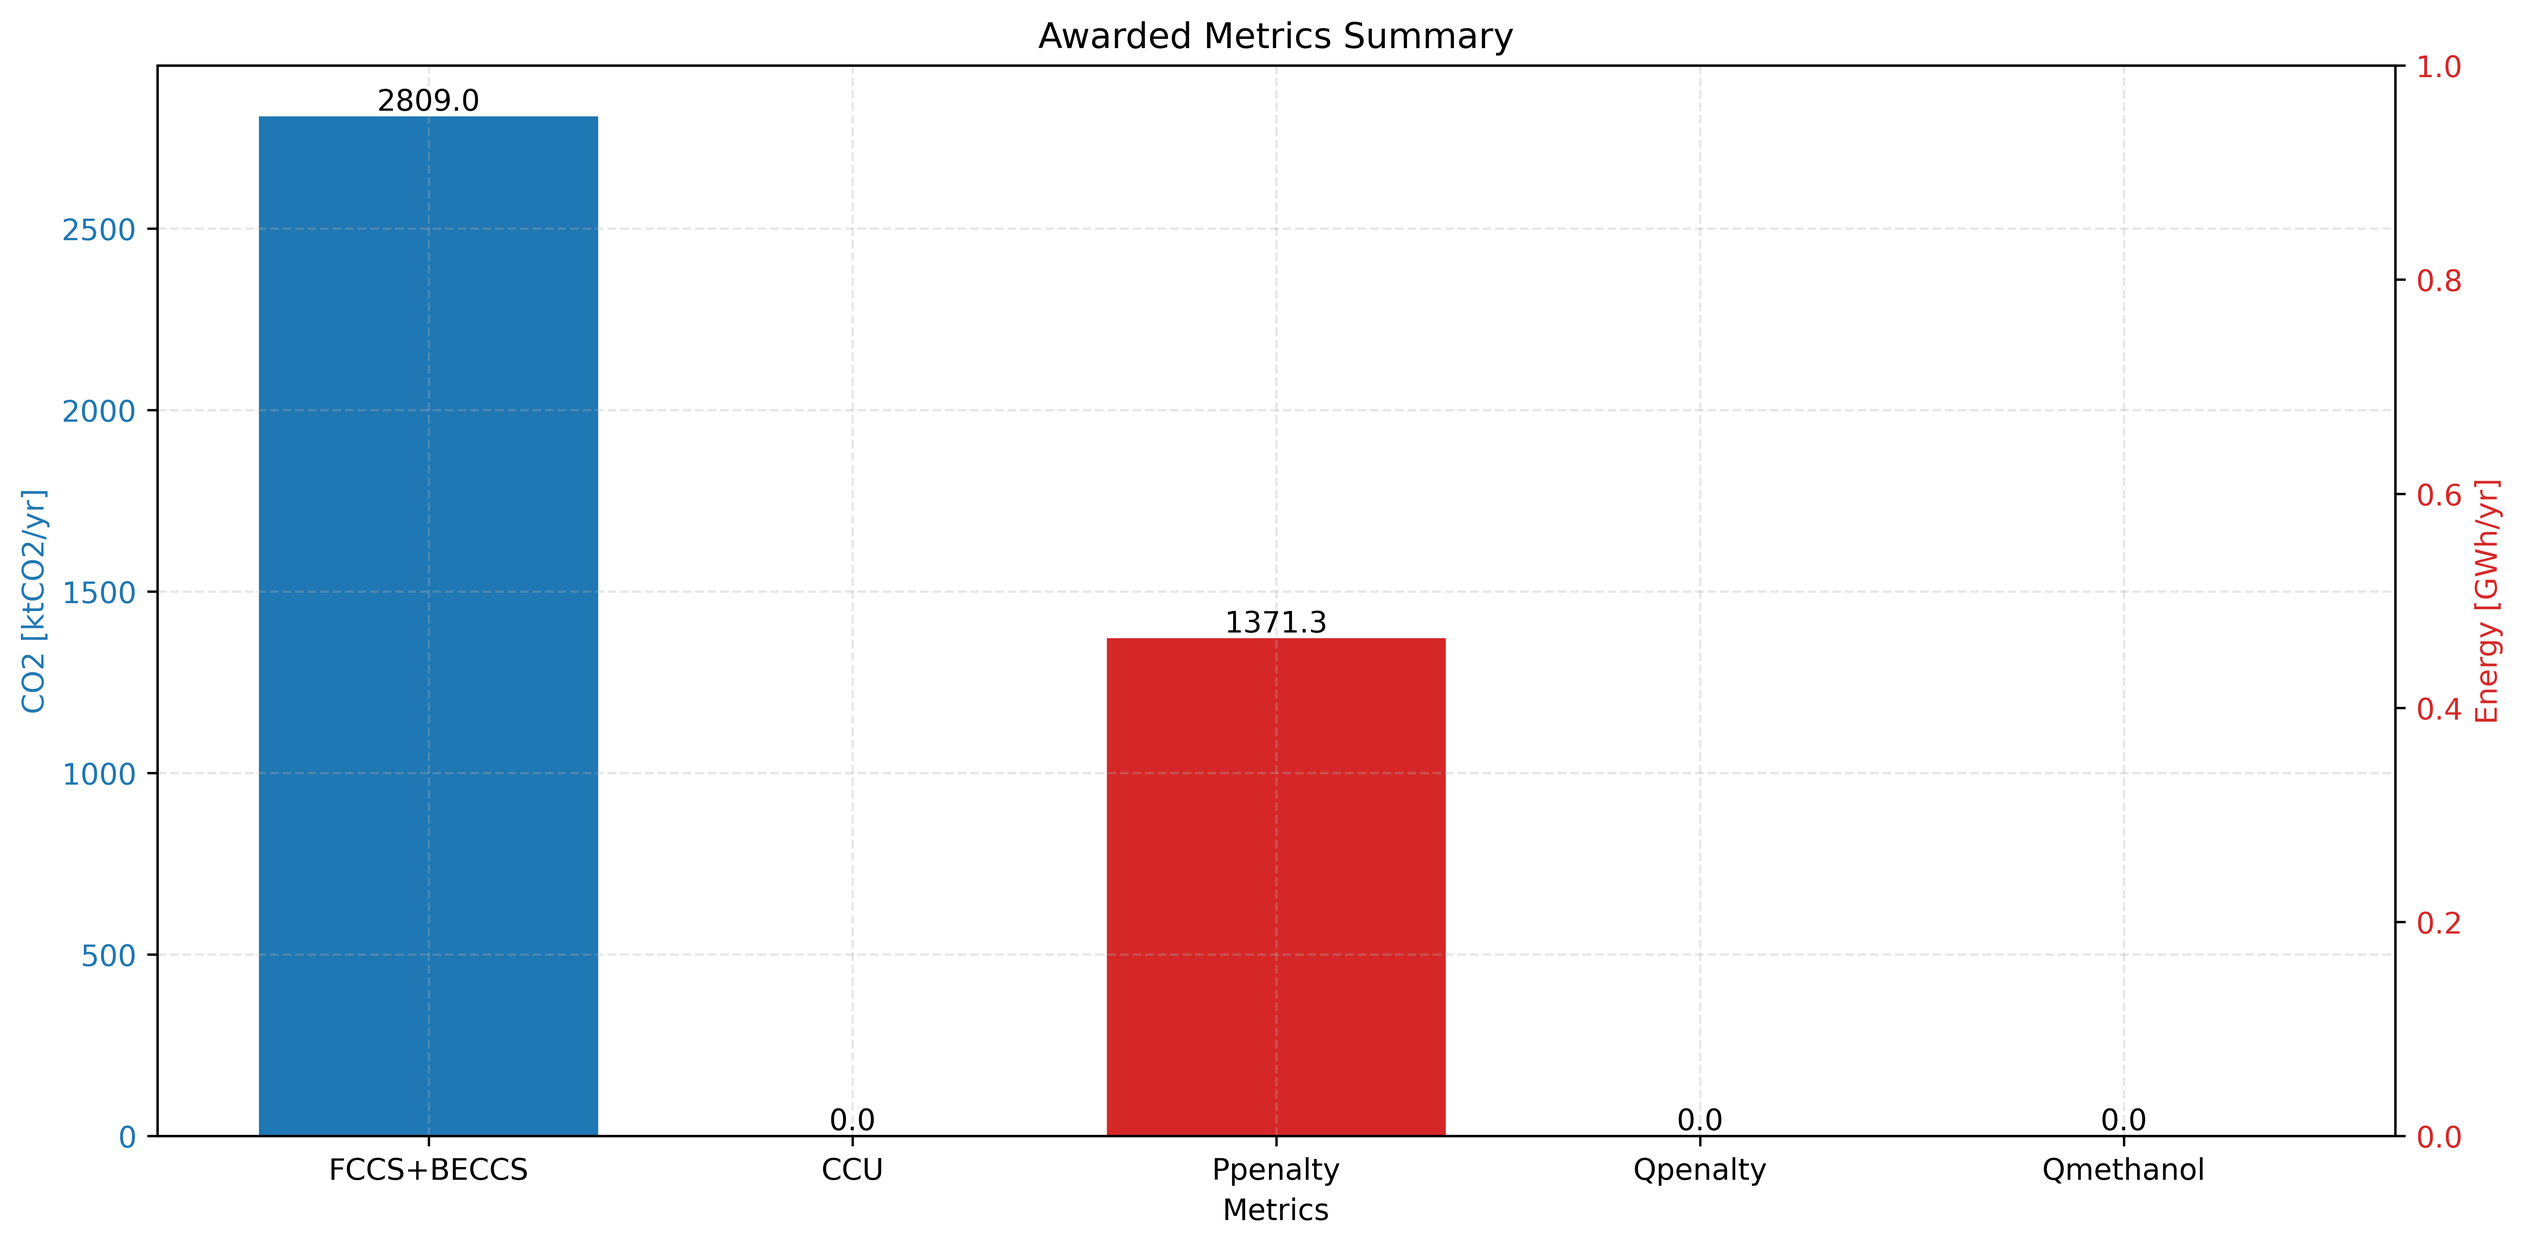
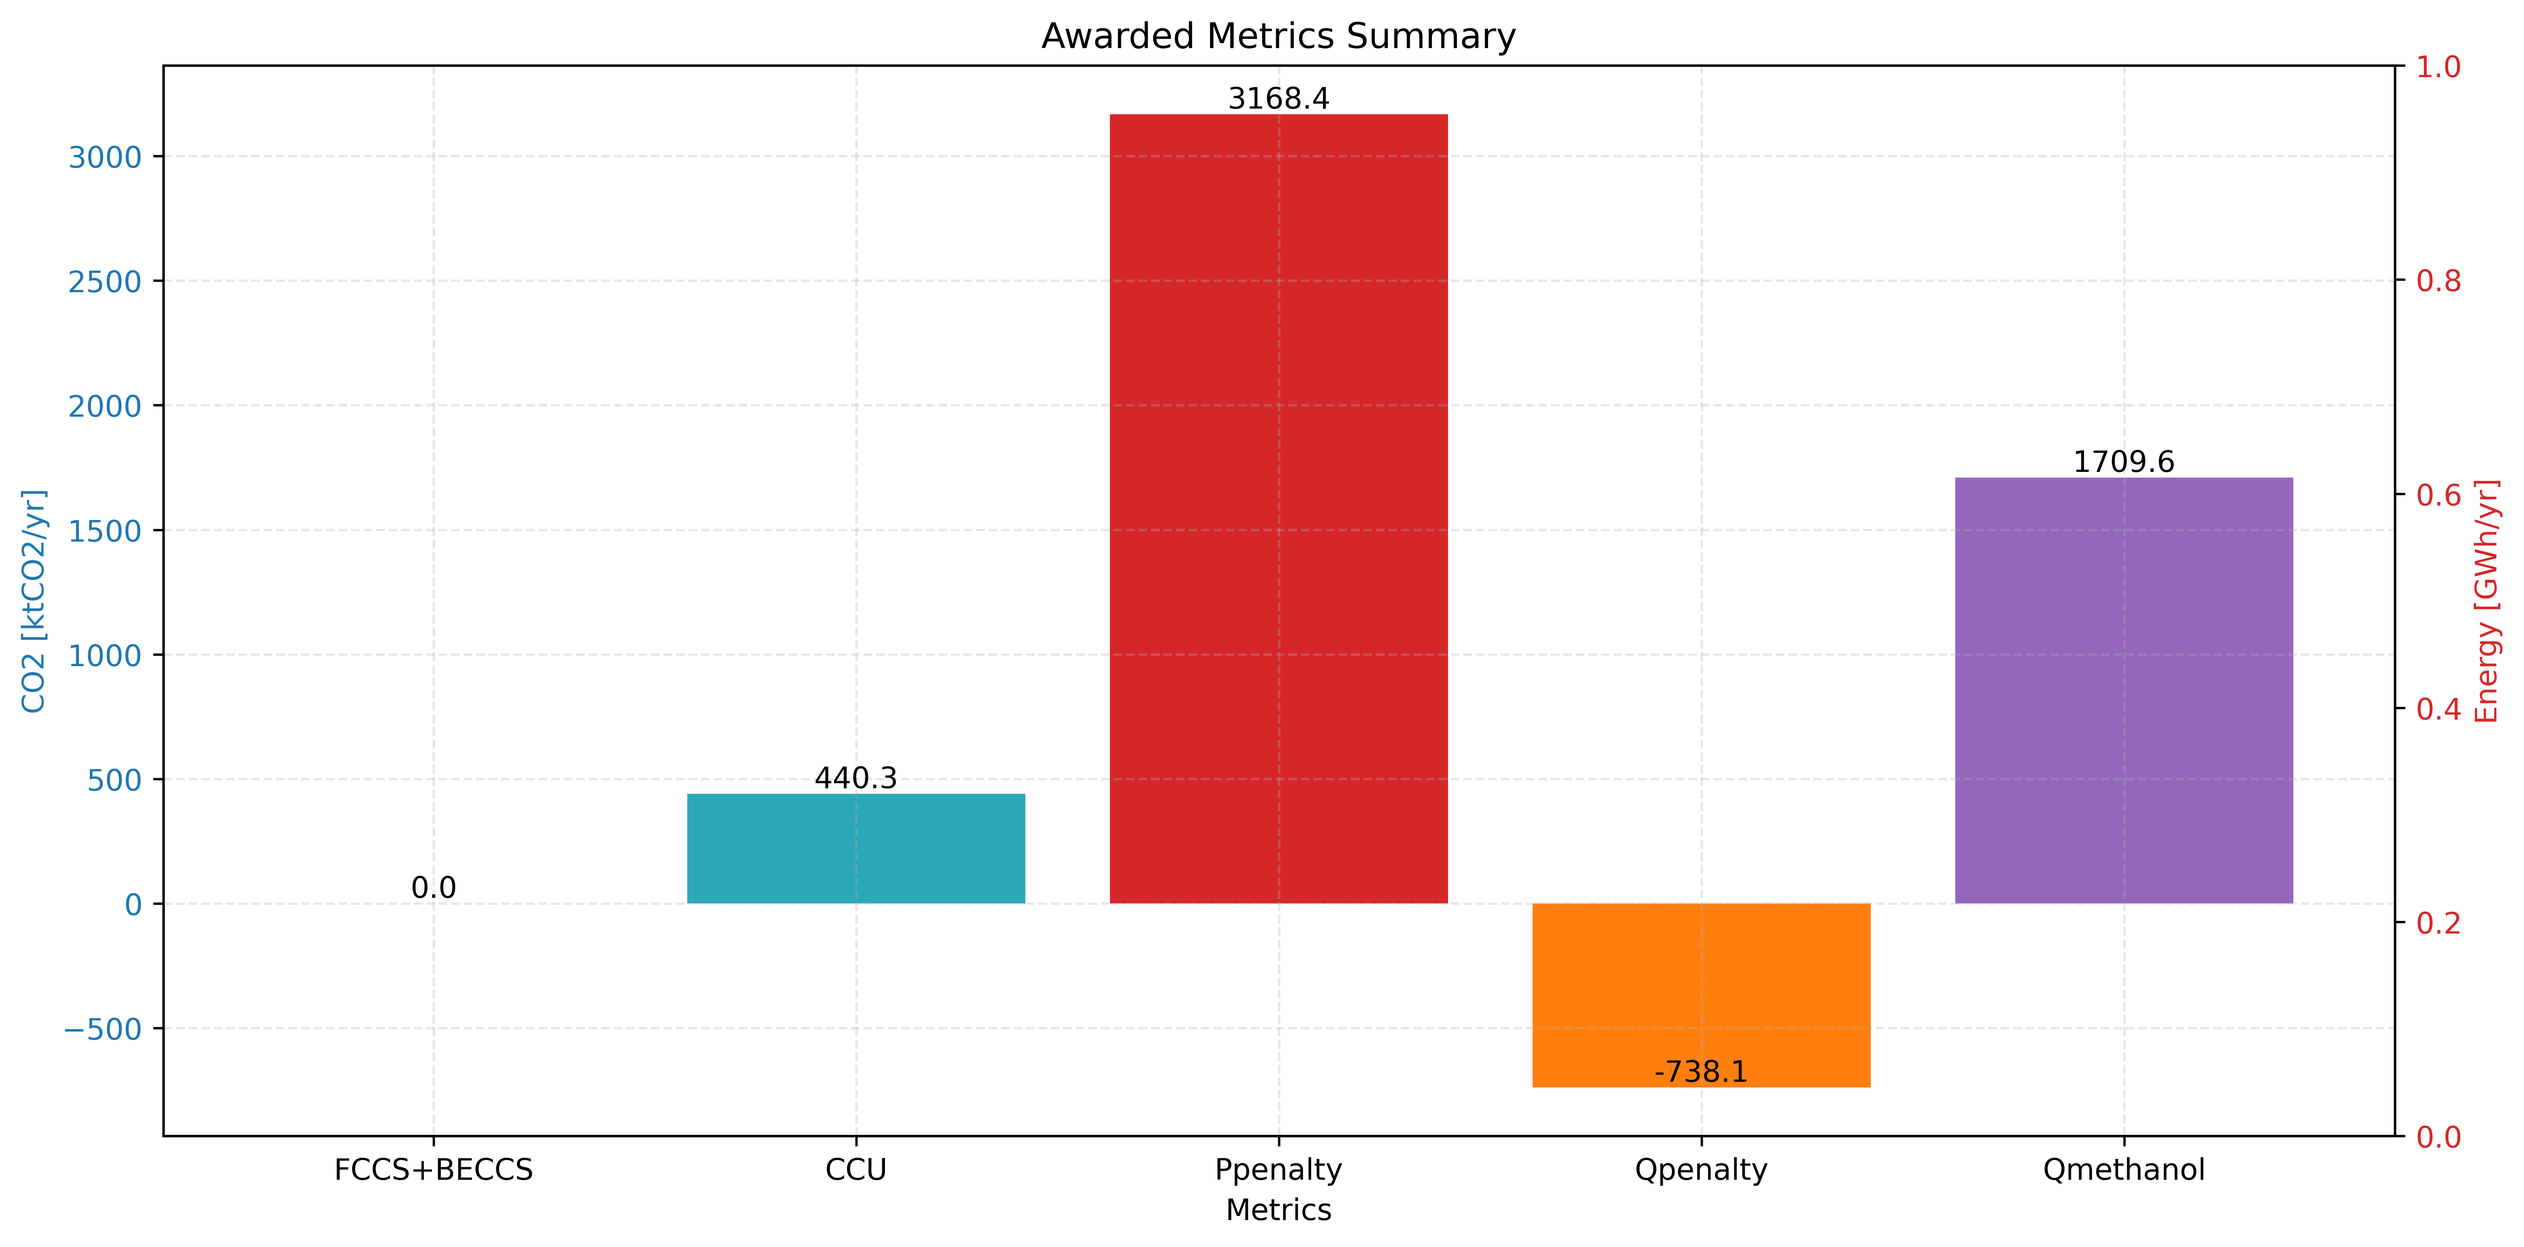
Verified energy of CCU - still missing costs

diff --git a/model.py b/model.py
@@ -168,7 +168,7 @@ def compression_energy(mcaptured, T1, P1, gas_type='CO2', n_stages=4, pressure_r
         Wcomp = mcaptured * (cp_in + cp_out)/2 * (T_actual - T)  # [kJ/s]
         
         # Calculate cooling only if not the last stage
-        Qcool = 0 if stage == n_stages - 1 else mcaptured * cp_out * (T_actual - (T + Tdiff))    # [kJ/s]
+        Qcool = 0 if stage == n_stages - 1 else mcaptured * cp_out * (T_actual - (T + Tdiff))    # [kJ/s] NOTE: Compressor temps should not increase... but it does in Beiron?
         
         # Store results
         Wcomp_list.append(Wcomp/1000)  # Convert to MW
@@ -571,7 +571,7 @@ def plot_CCU_combined(plant, P, Qdh, Preb, Pcapture, PH2, Wcomp_CO2, Wcomp_H2, Q
     
     return fig
 
-def plan_CCU(plant, x, plot_single=False):
+def plan_CCU(plant, x, plot_single=True):
     # burn fuel
     mfuel = plant["Qwaste"] / (x["LHV"]/3600) /3600  # [kgf/s]
     mCO2 = mfuel* x["Ccontent"] * 44/12              # [kgCO2/s]
@@ -584,20 +584,18 @@ def plan_CCU(plant, x, plot_single=False):
     
     T1 = 40 + 273.15  # Initial temperature [K] [Deng, 2019]
     P1 = 1.0         # Initial pressure [bar]
-    Wcomp_list, Qcool_list, P_list, T_list = compression_energy(
+    Wcomp_list, Qcool_list, P_list, T_list = compression_energy( # Setting target p and T according to [Beiron, 2025 (unpublished)]
         mcaptured=mcaptured,
         T1=T1,
         P1=P1,
         gas_type='CO2',
-        n_stages=4,
-        pressure_ratio=3.0,
+        n_stages=3,
+        pressure_ratio=3.7,
         Tdiff=30,
         thermo_props=x["thermo_props"],
         etais=x["etais"],
         printing=False
     )
-    print(P_list)
-    print(T_list)
     Wcomp_CO2 = sum(Wcomp_list)  # [MW]
     cost_CO2, _ = compression_cost(Wcomp_list, 'CO2', printing=False)
     Qcool_CO2 = sum(Qcool_list)  # [MW]
@@ -605,14 +603,14 @@ def plan_CCU(plant, x, plot_single=False):
     # produce H2 from AEL electrolyzer
     Hi = 241.82             # [kJ/molH2] [Formelsamling]
     nCO2 = mcaptured/44     # [kmol/s]
-    nH2 = nCO2 * 3          # [kmol/s]
+    nH2 = nCO2 * 3          # [kmol/s] needed
     QH2 = nH2*1000 * Hi     # [kW] 
-    PH2 = QH2/0.699         # [kW] 
-    Qrec_H2 = 0.223 * PH2   # [kW] [AEL tech, Fig2.1 MSc Jacobsson & Palmgren, 2025] OR [Danish Renwable Fuels 100MW AEC]
+    PH2 = QH2/0.699         # [kW] Table2.1 MSc Jacobsson & Palmgren, 2025
+    Qrec_H2 = 0.154 * PH2   # [kW] [AEL tech, Fig2.1 MSc Jacobsson & Palmgren, 2025] OR [Danish Renwable Fuels 100MW AEC] NOTE: Optimistic
 
     # compress the H2
     mH2 = nH2 * 2           # [kg/s] 
-    T1 = 75 + 273.15        # [AEL tech, Fig2.1 MSc Jacobsson & Palmgren, 2025]
+    T1 = 75 + 273.15        # [AEL tech, Table2.1 MSc Jacobsson & Palmgren, 2025]
     P1 = 20                 # Initial pressure [bar], assumed based on [Danish]
     Wcomp_list, Qcool_list, P_list, T_list = compression_energy(
         mcaptured=mH2,
@@ -620,53 +618,54 @@ def plan_CCU(plant, x, plot_single=False):
         P1=P1,
         gas_type='H2',
         n_stages=2,
-        pressure_ratio=2.0,
-        Tdiff=10,
+        pressure_ratio=1.6,
+        Tdiff=60,
         thermo_props=x["thermo_props"],
         etais=x["etais"],
         printing=False
     )
-    print(P_list)
-    print(T_list)
     Wcomp_H2 = sum(Wcomp_list)  # [MW]
     cost_H2, _ = compression_cost(Wcomp_list, 'H2', printing=False)
     Qcool_H2 = sum(Qcool_list)  # [MW]
 
-    # produce methanol and extra DH
-    Qmethanol_raw = QH2/1000 # [MW] assumed no steam need for synthesis...
-    Qmethanol = 0.78*Qmethanol_raw # [MW] [Danish Renewable Fuels Fig3]
-    Qdistill = 0.20*Qmethanol_raw # [MW] 
+    # produce methanol and extra DH - check Danish Agency for method - we treat the whole synthesis plant as a single unit
+    Qsteam_synthesis = 0.08/(1-0.08) * QH2/1000 # [MW] [Danish Renewable Fuels Fig3, section 5.2 Methanol from Hydrogen and Carbon Dioxide]
+    Qmethanol = 0.78 * (QH2/1000 + Qsteam_synthesis) # [MW]
+    Qdistill = 0.20 * (QH2/1000 + Qsteam_synthesis) # [MW] NOTE: Optimistic assumption on heat recovery, from condensers at distillation
+    Qloss = 0.02 * (QH2/1000 + Qsteam_synthesis) # [MW] 
 
     # penalize CHP and recover Qdh
-    P = plant["P"] * (1 - Qreb/plant["Qwaste"])      # assuming live steam is used for reboiler
-    Preb = plant["P"]*Qreb/plant["Qwaste"]
+    P = plant["P"] * (1 - Qreb/plant["Qwaste"] - Qsteam_synthesis/plant["Qwaste"])      # assuming live steam is used for reboiler AND synthesis plant
+    Preb = plant["P"]*(Qreb+Qsteam_synthesis)/plant["Qwaste"] # power lost to reboiler?
     P = P - Pcapture - PH2/1000 - Wcomp_CO2 - Wcomp_H2
 
-    Qdh = plant["Qdh"] * (1 - Qreb/plant["Qwaste"])
-    Qdhreb = plant["Qdh"]*Qreb/plant["Qwaste"]
-    Qdh = Qdh + Qhex + Qcool_CO2 + Qrec_H2/1000 + Qcool_H2 + Qdistill
+    Qdh = plant["Qdh"] * (1 - Qreb/plant["Qwaste"] - Qsteam_synthesis/plant["Qwaste"])
+    Qdhreb = plant["Qdh"]*(Qreb+Qsteam_synthesis)/plant["Qwaste"]
+    Qdh = Qdh + Qcool_CO2 + Qcool_H2 + (Qhex + Qrec_H2/1000 + Qdistill)*x["heat_optimism"] # [MW]
 
     Ppenalty = (plant["P"] - P) * x["FLH"] /1000          # [GWh/yr] probably very positive
     Qpenalty = (plant["Qdh"] - Qdh) * x["FLH"] /1000     # [GWh/yr] probably negative
     Qmethanol = Qmethanol * x["FLH"] /1000               # [GWh/yr] positive
 
-    KPI1 = Qmethanol/x["FLH"]*1000 / (plant["Qwaste"] + (-P)) # [MW/MW]
-    KPI2 = (Qmethanol/x["FLH"]*1000 + Qdh)/ (plant["Qwaste"] + (-P)) # [MW/MW]
-    KPI21 = 1 - ((plant["Qwaste"]+abs(P))-(Qdh+Qmethanol/x["FLH"]*1000)) / (plant["Qwaste"] + (-P)) # [MW/MW]
-    KPI3 = (-P) / ((plant["P"] * (1 - Qreb/plant["Qwaste"])) + (plant["Qdh"] * (1 - Qreb/plant["Qwaste"])) + (Qmethanol/x["FLH"]*1000)) # [MW/MW]
-    KPI4 = (-P) / (Qmethanol/x["FLH"]*1000)
-    KPI5 = ((plant["Qwaste"]+abs(P))-(Qdh+Qmethanol/x["FLH"]*1000)) / (Qmethanol/x["FLH"]*1000)
+    # print("These KPIs are similar to Beiron, if no recovery from Qhex, Qrec_H2, Qdistill:")
+    # KPI1 = Qmethanol/x["FLH"]*1000 / (plant["Qwaste"] + (-P)) # [MW/MW]
+    # KPI2 = (Qmethanol/x["FLH"]*1000 + Qdh)/ (plant["Qwaste"] + (-P)) # [MW/MW]
+    # KPI21 = 1 - ((plant["Qwaste"]+abs(P))-(Qdh+Qmethanol/x["FLH"]*1000)) / (plant["Qwaste"] + (-P)) # [MW/MW]
+    # KPI3 = (-P) / ((plant["P"] * (1 - Qreb/plant["Qwaste"])) + (plant["Qdh"] * (1 - Qreb/plant["Qwaste"])) + (Qmethanol/x["FLH"]*1000)) # [MW/MW]
+    # KPI4 = (-P) / (Qmethanol/x["FLH"]*1000)
+    # KPI5 = ((plant["Qwaste"]+abs(P))-(Qdh+Qmethanol/x["FLH"]*1000)) / (Qmethanol/x["FLH"]*1000)
 
-    print(f"KPI1: {KPI1:.2f}")
-    print(f"KPI2: {KPI2:.2f}")
-    print(f"KPI2: {KPI21:.2f}")
-    print(f"KPI3: {KPI3:.2f}")
-    print(f"KPI4: {KPI4:.2f}")
-    print(f"KPI5: {KPI5:.2f}")
+    # print(f"KPI1: {KPI1:.2f}")
+    # print(f"KPI2: {KPI2:.2f}")
+    # print(f"KPI2: {KPI21:.2f}")
+    # print(f"KPI3: {KPI3:.2f}")
+    # print(f"KPI4: {KPI4:.2f}")
+    # print(f"KPI5: {KPI5:.2f}")
 
     # Estimate CAPEX and OPEX of all units
     CAPEX, levelized_CAPEX = estimate_CAPEX(mcaptured, x)  # [kEUR, EUR/tCO2] NOTE: Includes compression/liq CAPEX...
-    CAPEX_H2 = 550/1000 * PH2 # [kEUR] [Danish]
+    # CAPEX_H2 = 550/1000 * PH2 # [kEUR] [Danish] NOTE: Looks wrong, adjust to Jacobsson MSc Table2.1
+    CAPEX_H2 = 375 * PH2/1000 # [kEUR/MWH2] NOTE: verify if it is per MWH2 or MWel?
     OPEX_H2 = 0.04 * CAPEX_H2 # [kEUR/yr] 
     CAPEX_synthesis = 1.09*1000 * Qmethanol/x["FLH"] # [kEUR] [Beiron, Grahn, no Danish! Includes destillation probably]
     OPEX_synthesis = 0.05 * CAPEX_synthesis # [kEUR/yr]
@@ -675,6 +674,7 @@ def plan_CCU(plant, x, plot_single=False):
     levelized_CAPEX_synthesis = levelize(CAPEX_synthesis, mcaptured, x)
     levelized_CAPEX_CO2_comp = levelize(cost_CO2/1000, mcaptured, x)  # Convert cost_CO2 from EUR to kEUR
     levelized_CAPEX_H2_comp = levelize(cost_H2/1000, mcaptured, x)    # Convert cost_H2 from EUR to kEUR
+    print(levelized_CAPEX, levelized_CAPEX_H2, levelized_CAPEX_synthesis, levelized_CAPEX_CO2_comp, levelized_CAPEX_H2_comp)
 
     annual_CO2 = mcaptured/1000*3600 * x["FLH"]  # [tCO2/yr]
     levelized_OPEX_H2 = OPEX_H2 / annual_CO2 * 1000  # [EUR/tCO2]
@@ -693,7 +693,7 @@ def plan_CCU(plant, x, plot_single=False):
     print(f"energy_revenues: {energy_revenues:.2f} EUR/tCO2")
 
     fossil = plant["Fossil"] / plant["Total"]                               # [tfossil/t] share of fossil CO2
-    bid = CAC - x["ETS"]*fossil - energy_revenues # [EUR/tCO2]
+    bid = CAC - energy_revenues # [EUR/tCO2]
     print(f"CAC: {CAC:.2f} EUR/tCO2")
     print(f"ETS: {x['ETS']*fossil:.2f} EUR/tCO2")
     print(f"energy_revenues: {energy_revenues:.2f} EUR/tCO2")
@@ -1229,7 +1229,7 @@ def WACCUS_EPR(
     cheat = 0.80,       # [% of elc]
     CRC = 100,          # [EUR/tCO2]
     ETS = 80,           # [EUR/tCO2]
-    pmethanol = 625,    # [EUR/t] NOTE: CHECK CCU THESIS FOR PRICE ESTIMATES, e.g. 1750 EUR/t
+    pmethanol = 625,    # [EUR/t] NOTE: CHECK CCU THESIS FOR PRICE ESTIMATES, e.g. 1750 EUR/t... NO now they say 700?
 
     lulea = 1,          # [1,2,3] [Mt/yr]
     sundsvall = 1,      # [1,2,3] [Mt/yr]
@@ -1238,6 +1238,7 @@ def WACCUS_EPR(
     gothenburg = 1,     # [1,2,3] [Mt/yr]
     optimism = False,   # [True, False]
     destination = "oygarden",  # ["oygarden", "kalundborg"]
+    heat_optimism = 1,  # [0,1] assumed % of waste heat that can be recovered to DH
 
     # levers 
     tax = 110,          # [EUR/tCO2]
@@ -1279,6 +1280,7 @@ def WACCUS_EPR(
         "CRC": CRC,
         "ETS": ETS,
         "pmethanol": pmethanol,
+        "heat_optimism": heat_optimism,
 
         "tax": tax,
         "k": k,
@@ -1340,8 +1342,8 @@ def WACCUS_EPR(
         CCU_names = ["Renova","SAKAB","Filbornaverket","Garstadverket","Sjolunda"]
         CCS_names = ["Handeloverket","Bristaverket","Vasteras KVV","Hogdalenverket","Bolanderna"]
     elif case == "CCU":
-        CCU_names = ["Renova","SAKAB","Filbornaverket","Garstadverket","Sjolunda","Handeloverket","Bristaverket","Vasteras KVV","Hogdalenverket","Bolanderna"]
-        # CCU_names = ["Renova"]
+        # CCU_names = ["Renova","SAKAB","Filbornaverket","Garstadverket","Sjolunda","Handeloverket","Bristaverket","Vasteras KVV","Hogdalenverket","Bolanderna"]
+        CCU_names = ["Renova"]
         CCS_names = []
     elif case == "CCS":
         CCU_names = []
@@ -1494,7 +1496,7 @@ if __name__ == "__main__":
     output = WACCUS_EPR(
         plants=plants, 
         k=k,                          # For CAPEX=CAPEX_ref⋅(mCO2/mCO2_ref)^k
-        case="CCS", 
+        case="CCU", 
         transport_costs=transport_costs,
         sea_distances=sea_distances,  # Pass pre-calculated distances dict
         thermo_props=thermo_props     # Pass thermodynamic properties
@@ -1502,8 +1504,7 @@ if __name__ == "__main__":
     
     # Create and save the plots
     fig1 = plot_awarded_metrics(output)
-    fig2 = plot_product_increases(pd.DataFrame(output['product_increases']))
-    
+
     # Plot cost breakdown for each plant
     bid_data = output['bid_data']
     
@@ -1515,21 +1516,20 @@ if __name__ == "__main__":
     
     print("Most CCU plants are near profitable already - consider adding higher electrolyzer costs etc., also no ETS incentive?")
     print("I should verify the methanol production - is it reasonable really?")
-    print("Let's start with CCS cases and auctions then!")
 
-    print("--- Feedback from Johanna/Judit ---")
-    print("The KPIs are ish similar to those in Johanna's study. However, I am to optimistic about recovering waste heat.")
-    print("Compressors: These cannot increase to the Tsynthesis, they should be reduced to 40C ish in every stage")
-    print("-> However, I might neglect that issue. Otherwise, I must add a heater to re-heat the CO2 and H2 entering the synthesis")
-    print("The largest heat recovery units are: from the amine capture plant (reboiler), ALK electrolyzer, and the methanol synthesis.")
-    print("-> These deserve greater attention - mainly, I must verify that the heat temperatures are ok for DH applications")
-    print("-> Check how much heat the synthesis produces, it should be transferred to the destillation first, and THEN MAYBE some of this remaining heat is available for either the qreboiler (exciting option!) or for DH (but check temperatures)")
-    print("-> It is far from certain that you can recover this much heat from the destillation - its not necesarily true that 80percent of the energy in raw methanol becomes methanol and that 20percent to DH.")
-    print("----> Check with Johanna for sources on that, possibly? Also, we need a pure destillation (cannot do without) since we use it for plastic/chemicals")
-    print("-> It's uncertain how much heat can be recovered from electrolyzers - ask Tharun! He has the percentage and termperatures ... or maybe the MSc thesis")
-    print("Finally, double check the conversion from H2 to methanol in synthesis - can I do it as an energy conversion, 100prc H2 to 100prc methanol? Do it via reaciton formula and LHV values as well! Check!")
-    print("-> This is suspicious because one H2 should be lost (mass-wise) for each methanol molecule produced: CO2+3H2=>CH3OH+H2O")
-    print(" .... She thinks I MUST DO EXERGY ANALYSIS... since heat is different... well, I don't think so, since I only need MONEY analysis!")
+    # print("--- Feedback from Johanna/Judit ---")
+    # print("The KPIs are ish similar to those in Johanna's study. However, I am to optimistic about recovering waste heat.")
+    # print("Compressors: These cannot increase to the Tsynthesis, they should be reduced to 40C ish in every stage")
+    # print("-> However, I might neglect that issue. Otherwise, I must add a heater to re-heat the CO2 and H2 entering the synthesis")
+    # print("The largest heat recovery units are: from the amine capture plant (reboiler), ALK electrolyzer, and the methanol synthesis.")
+    # print("-> These deserve greater attention - mainly, I must verify that the heat temperatures are ok for DH applications")
+    # print("-> Check how much heat the synthesis produces, it should be transferred to the destillation first, and THEN MAYBE some of this remaining heat is available for either the qreboiler (exciting option!) or for DH (but check temperatures)")
+    # print("-> It is far from certain that you can recover this much heat from the destillation - its not necesarily true that 80percent of the energy in raw methanol becomes methanol and that 20percent to DH.")
+    # print("----> Check with Johanna for sources on that, possibly? Also, we need a pure destillation (cannot do without) since we use it for plastic/chemicals")
+    # print("-> It's uncertain how much heat can be recovered from electrolyzers - ask Tharun! He has the percentage and termperatures ... or maybe the MSc thesis")
+    # print("Finally, double check the conversion from H2 to methanol in synthesis - can I do it as an energy conversion, 100prc H2 to 100prc methanol? Do it via reaciton formula and LHV values as well! Check!")
+    # print("-> This is suspicious because one H2 should be lost (mass-wise) for each methanol molecule produced: CO2+3H2=>CH3OH+H2O")
+    # print(" .... She thinks I MUST DO EXERGY ANALYSIS... since heat is different... well, I don't think so, since I only need MONEY analysis!")
     print(" ")
     print("I should ask EON about the feasibility of CCU - seems like power costs are higher than methanol revenues?!")
     plt.show()
